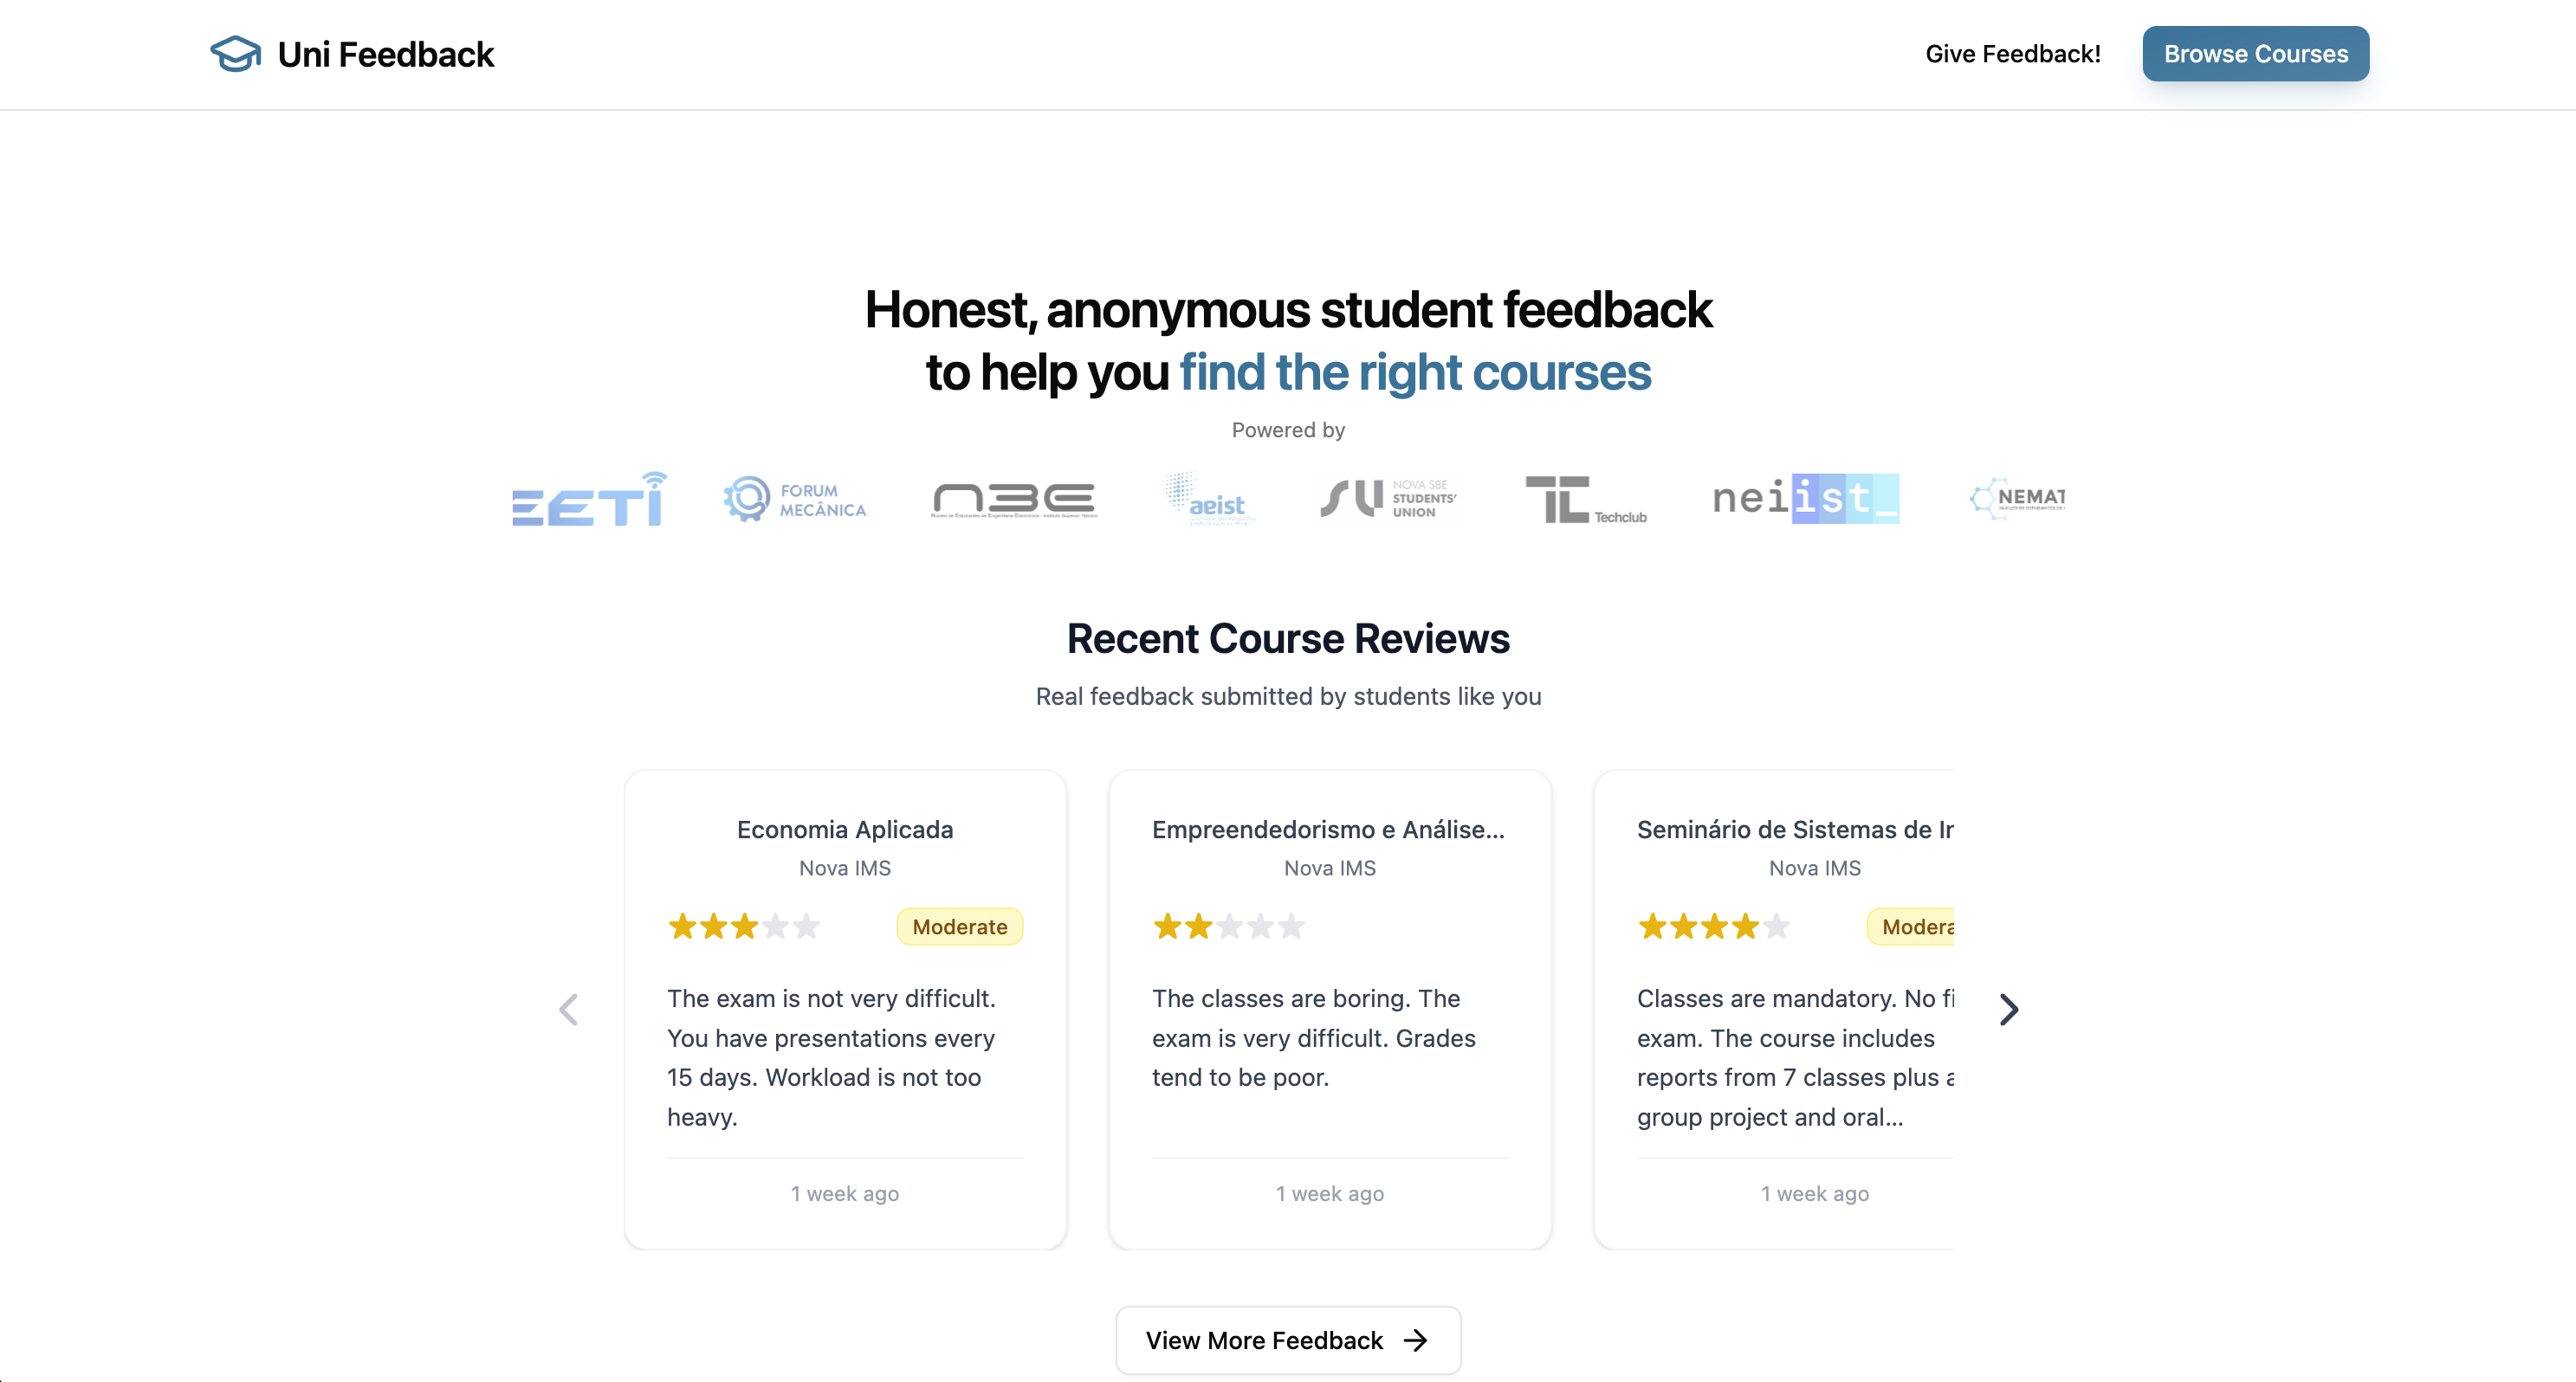
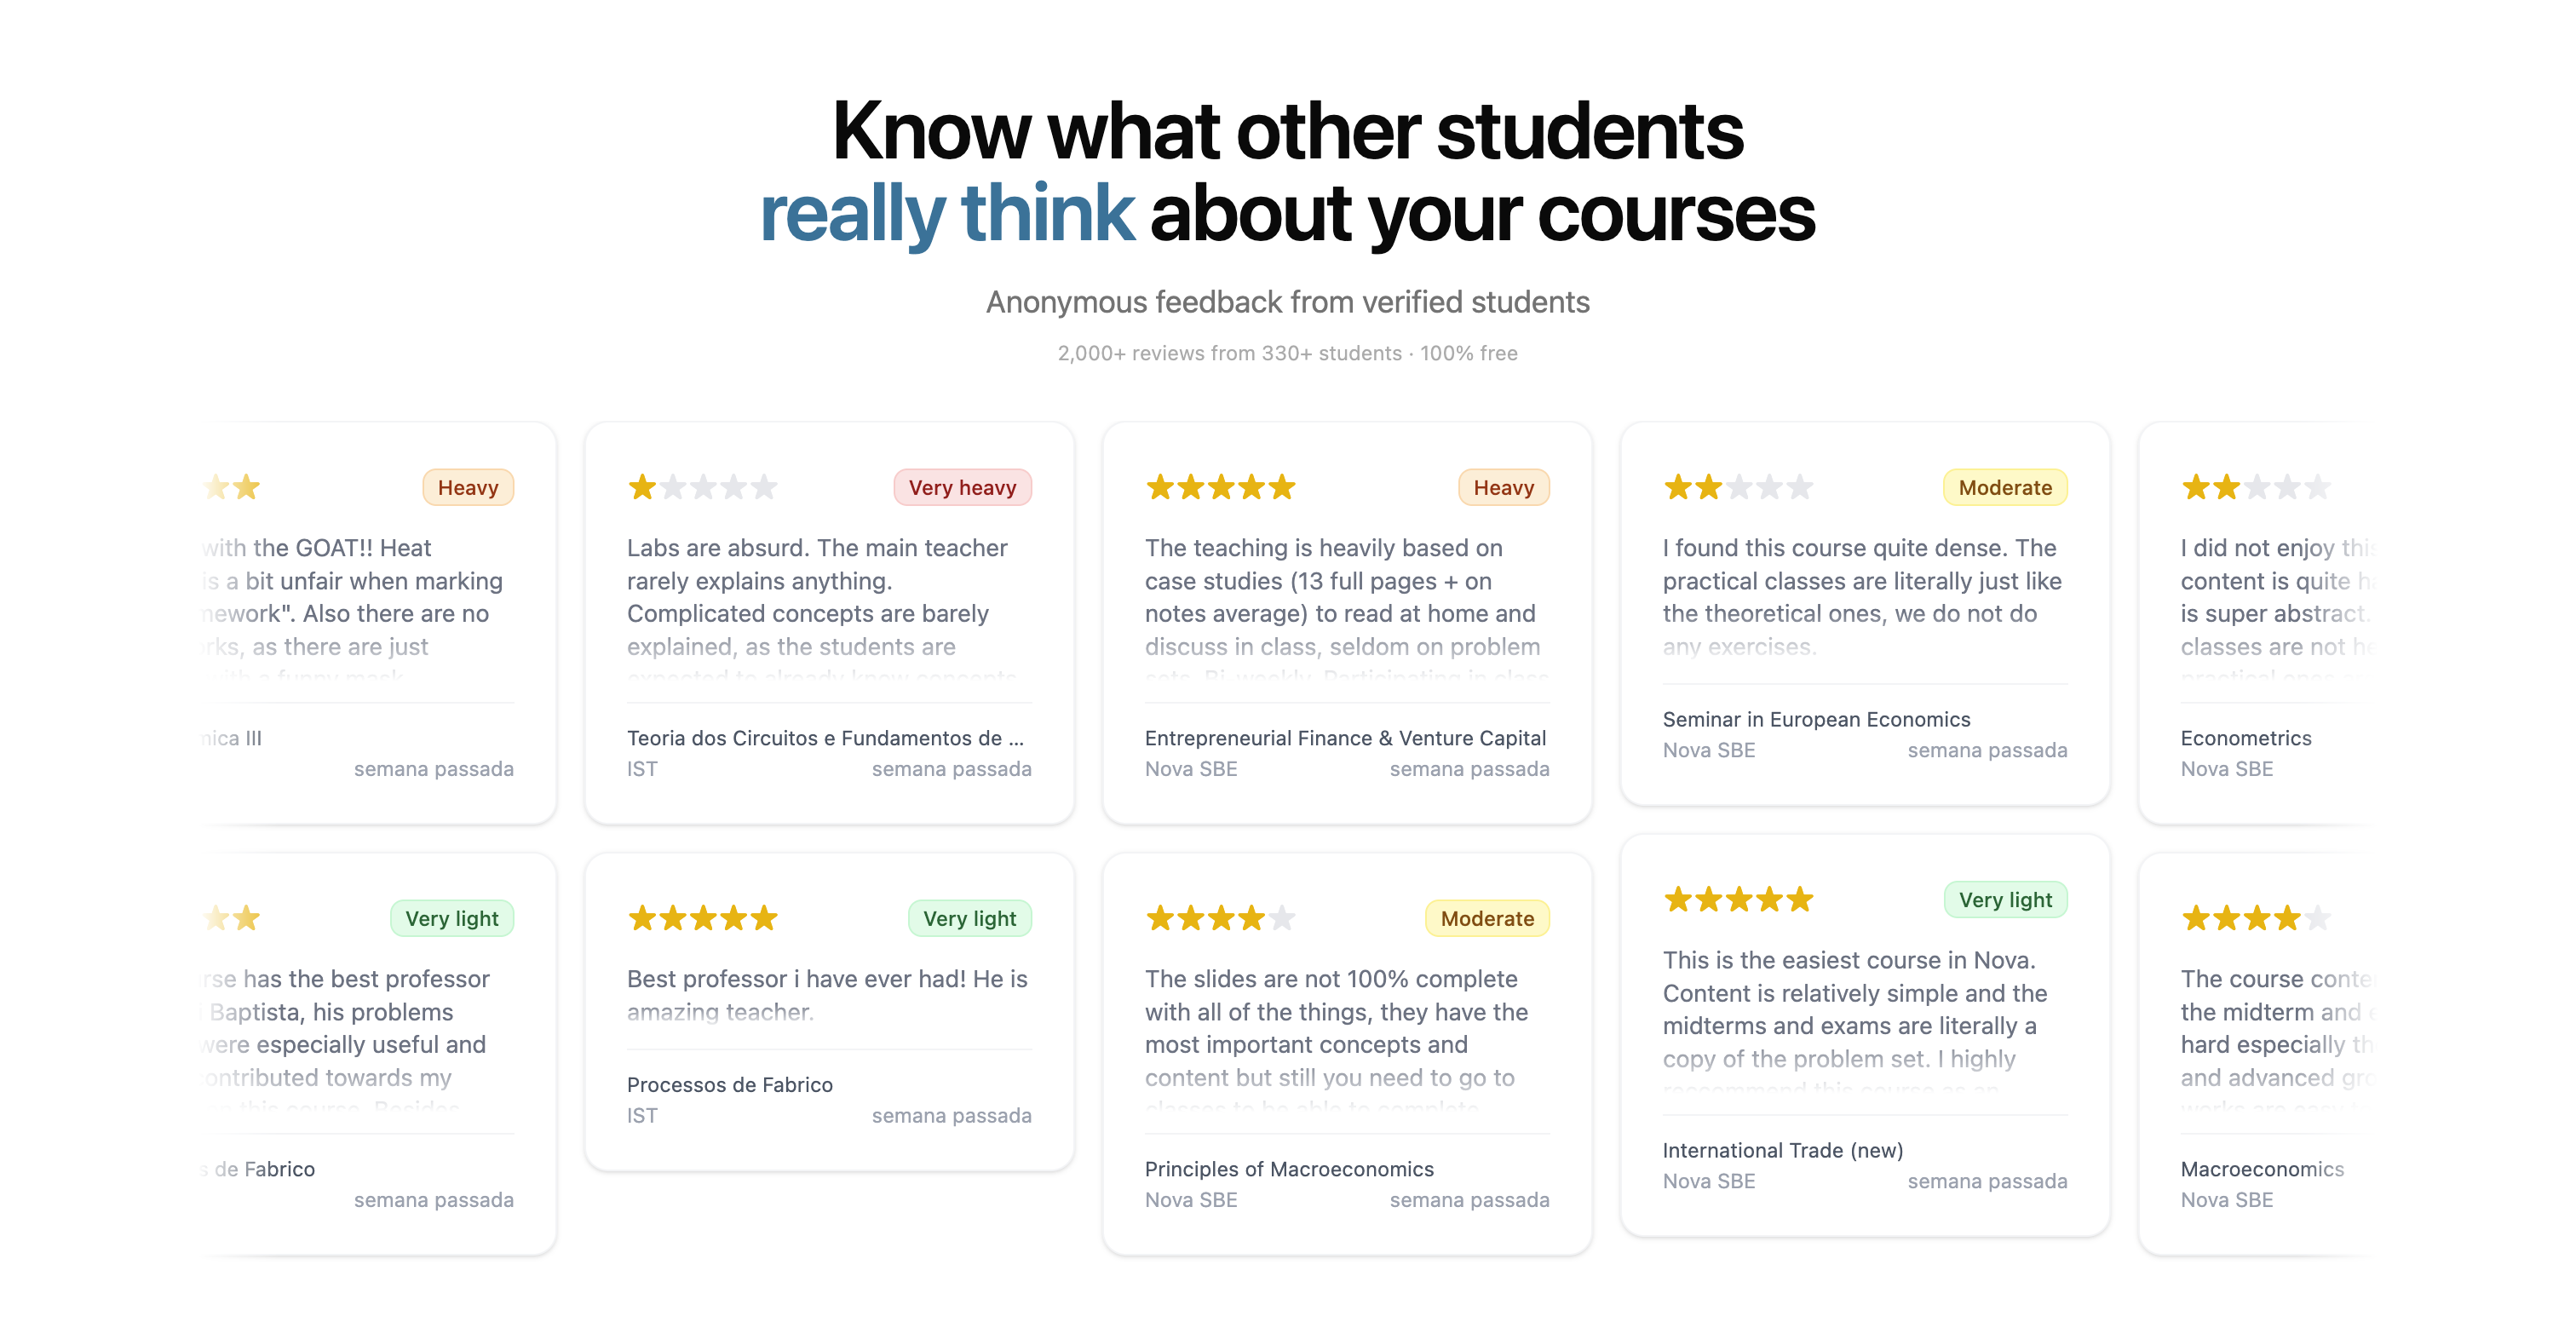
update README

diff --git a/README.md b/README.md
@@ -1,126 +1,18 @@
-# Uni Feedback
+[![Live website — uni-feedback.com](./website_screenshot.png)](https://uni-feedback.com)
 
-## Honest reviews. Smarter choices.
+[**Uni Feedback**](https://uni-feedback.com) is a website where you can learn what courses are really like, through anonymous reviews from verified students.
 
-**Uni Feedback** is a platform where you can discover what each course is really like, through honest, anonymous reviews from fellow students.
+- **Know what to expect before enrolling**: Avoid bad courses, find the best ones for you.
+- **Share your own experience**: Help other students make informed decisions. Your review is always anonymous.
 
-- **Know what to expect before enrolling** — avoid bad courses, find the best ones for you.
-- **Share your own experience** — help other students make informed decisions. Your review is always anonymous.
+Check it out at **[uni-feedback.com](https://uni-feedback.com)**!
 
-👉 [Explore course ratings and reviews](https://uni-feedback.com)
-
-![uni-feedback.com](./website_screenshot.png)
+> ❤️ **Finding this useful?**
+> 
+> Tell [Review your courses](https://uni-feedback.com/feedback/new)
 
 ---
 
-❤️ **Finding this platform useful?**
-
-[Give your anonymous review](https://uni-feedback.com/feedback/new) on the courses you took. Other students will thank you!
-
-## Development Setup
-
-This is a **Turborepo monorepo** with a React Router 7 (SSR) frontend, an Express backend, and a PostgreSQL database.
-
-### Prerequisites
-
-- **Node.js** 22+
-- **pnpm** 9.15.4+
-- **Docker** (for the local database)
-
-### Quick Start
-
-1. **Clone and install dependencies:**
-   ```bash
-   git clone https://github.com/afonsocrg/MEIC-feedback.git
-   cd MEIC-feedback
-   pnpm install
-   ```
-
-2. **Configure environment variables:**
-   ```bash
-   cp .env.example .env
-   cp apps/api/.env.example apps/api/.env
-   cp apps/website-ssr/.env.example apps/website-ssr/.env
-   # Update DATABASE_URL and PGPASSWORD in each .env file
-   ```
-
-3. **Start the database:**
-
-   `docker-compose.yml` defines the full stack (db + api + website-ssr), but for local development you only need the database — the apps run natively via pnpm:
-   ```bash
-   docker compose up db -d
-   ```
-
-4. **Run database migrations:**
-   ```bash
-   cd packages/db
-   pnpm migrate
-   cd ../..
-   ```
-
-5. **Start all development servers:**
-   ```bash
-   pnpm dev
-   ```
-
-This will start:
-- **Main website** at http://localhost:3000
-- **Admin dashboard** at http://localhost:5174
-- **API** at http://localhost:3001
-
-### Project Structure
-
-```
-uni-feedback/
-├── apps/
-│   ├── website-ssr/       # Main student-facing website (React Router 7 + SSR)
-│   ├── dashboard/         # Admin dashboard
-│   └── api/               # Express backend
-├── packages/
-│   ├── db/                # Database schema, migrations, Drizzle config
-│   ├── ui/                # Shared UI components
-│   ├── api-client/        # Shared API client functions
-│   └── utils/             # Shared utility functions
-└── docker-compose.yml     # Local database (PostgreSQL)
-```
-
-### Available Commands
-
-```bash
-# Monorepo commands (run from root)
-pnpm dev             # Start all development servers
-pnpm build           # Build all applications
-pnpm format          # Format code (run before commits!)
-pnpm lint            # Lint all packages
-pnpm type-check      # Type check all packages
-
-# Database commands (run from packages/db/)
-pnpm generate        # Generate a new migration
-pnpm migrate         # Apply pending migrations
-pnpm studio          # Open Drizzle Studio
-```
-
-### Tech Stack
-
-- **Frontend:** React 19, React Router 7, TypeScript, Vite, TailwindCSS 4.x, shadcn/ui
-- **Backend:** Node.js, Express, Drizzle ORM
-- **Database:** PostgreSQL (via Docker locally)
-- **Monorepo:** Turborepo with pnpm workspaces
-- **State Management:** TanStack Query
-
-### Git Hooks
-
-The pre-commit hook auto-formats staged files. Set it up once after cloning:
-
-```bash
-ln -sf ../../ops/pre-commit.sh .git/hooks/pre-commit
-```
-
-## Production
-
-In production (and staging), the full stack — database, API, and website — runs inside Docker containers. Images are built by GitHub Actions and pushed to GHCR; the server pulls and runs them via `docker-compose.prod.yml` (or `docker-compose.staging.yml` for staging).
-
 ## Contributing
 
-The sole purpose of this project is to help students choosing the right courses for them.
-If you find any bug or there's a feature you'd like to see, feel free to open an [issue](https://github.com/afonsocrg/MEIC-feedback/issues) or a [PR](https://github.com/afonsocrg/MEIC-feedback/pulls)!
+If you find a bug or have a feature idea, open an [issue](https://github.com/afonsocrg/MEIC-feedback/issues) or a [PR](https://github.com/afonsocrg/MEIC-feedback/pulls)! See [CONTRIBUTING.md](./CONTRIBUTING.md) for dev setup instructions.

diff --git a/CONTRIBUTING.md b/CONTRIBUTING.md
@@ -1,0 +1,106 @@
+# Contributing
+
+The sole purpose of this project is to help students choose the right courses for them. If you find a bug or there's a feature you'd like to see, feel free to open an [issue](https://github.com/afonsocrg/MEIC-feedback/issues) or a [PR](https://github.com/afonsocrg/MEIC-feedback/pulls)!
+
+## Development Setup
+
+This is a **Turborepo monorepo** with a React Router 7 (SSR) frontend, an Express backend, and a PostgreSQL database.
+
+### Prerequisites
+
+- **Node.js** 22+
+- **pnpm** 9.15.4+
+- **Docker** (for the local database)
+
+### Quick Start
+
+1. **Clone and install dependencies:**
+   ```bash
+   git clone https://github.com/afonsocrg/MEIC-feedback.git
+   cd MEIC-feedback
+   pnpm install
+   ```
+
+2. **Configure environment variables:**
+   ```bash
+   cp .env.example .env
+   cp apps/api/.env.example apps/api/.env
+   cp apps/website-ssr/.env.example apps/website-ssr/.env
+   # Update DATABASE_URL and PGPASSWORD in each .env file
+   ```
+
+3. **Start the database:**
+
+   `docker-compose.yml` defines the full stack (db + api + website-ssr), but for local development you only need the database — the apps run natively via pnpm:
+   ```bash
+   docker compose up db -d
+   ```
+
+4. **Run database migrations:**
+   ```bash
+   cd packages/db
+   pnpm migrate
+   cd ../..
+   ```
+
+5. **Start all development servers:**
+   ```bash
+   pnpm dev
+   ```
+
+This will start:
+- **Main website** at http://localhost:3000
+- **Admin dashboard** at http://localhost:5174
+- **API** at http://localhost:3001
+
+### Project Structure
+
+```
+uni-feedback/
+├── apps/
+│   ├── website-ssr/       # Main student-facing website (React Router 7 + SSR)
+│   ├── dashboard/         # Admin dashboard
+│   └── api/               # Express backend
+├── packages/
+│   ├── db/                # Database schema, migrations, Drizzle config
+│   ├── ui/                # Shared UI components
+│   ├── api-client/        # Shared API client functions
+│   └── utils/             # Shared utility functions
+└── docker-compose.yml     # Local database (PostgreSQL)
+```
+
+### Available Commands
+
+```bash
+# Monorepo commands (run from root)
+pnpm dev             # Start all development servers
+pnpm build           # Build all applications
+pnpm format          # Format code (run before commits!)
+pnpm lint            # Lint all packages
+pnpm type-check      # Type check all packages
+
+# Database commands (run from packages/db/)
+pnpm generate        # Generate a new migration
+pnpm migrate         # Apply pending migrations
+pnpm studio          # Open Drizzle Studio
+```
+
+### Tech Stack
+
+- **Frontend:** React 19, React Router 7, TypeScript, Vite, TailwindCSS 4.x, shadcn/ui
+- **Backend:** Node.js, Express, Drizzle ORM
+- **Database:** PostgreSQL (via Docker locally)
+- **Monorepo:** Turborepo with pnpm workspaces
+- **State Management:** TanStack Query
+
+### Git Hooks
+
+The pre-commit hook auto-formats staged files. Set it up once after cloning:
+
+```bash
+ln -sf ../../ops/pre-commit.sh .git/hooks/pre-commit
+```
+
+## Production
+
+In production (and staging), the full stack — database, API, and website — runs inside Docker containers. Images are built by GitHub Actions and pushed to GHCR; the server pulls and runs them via `docker-compose.prod.yml` (or `docker-compose.staging.yml` for staging).